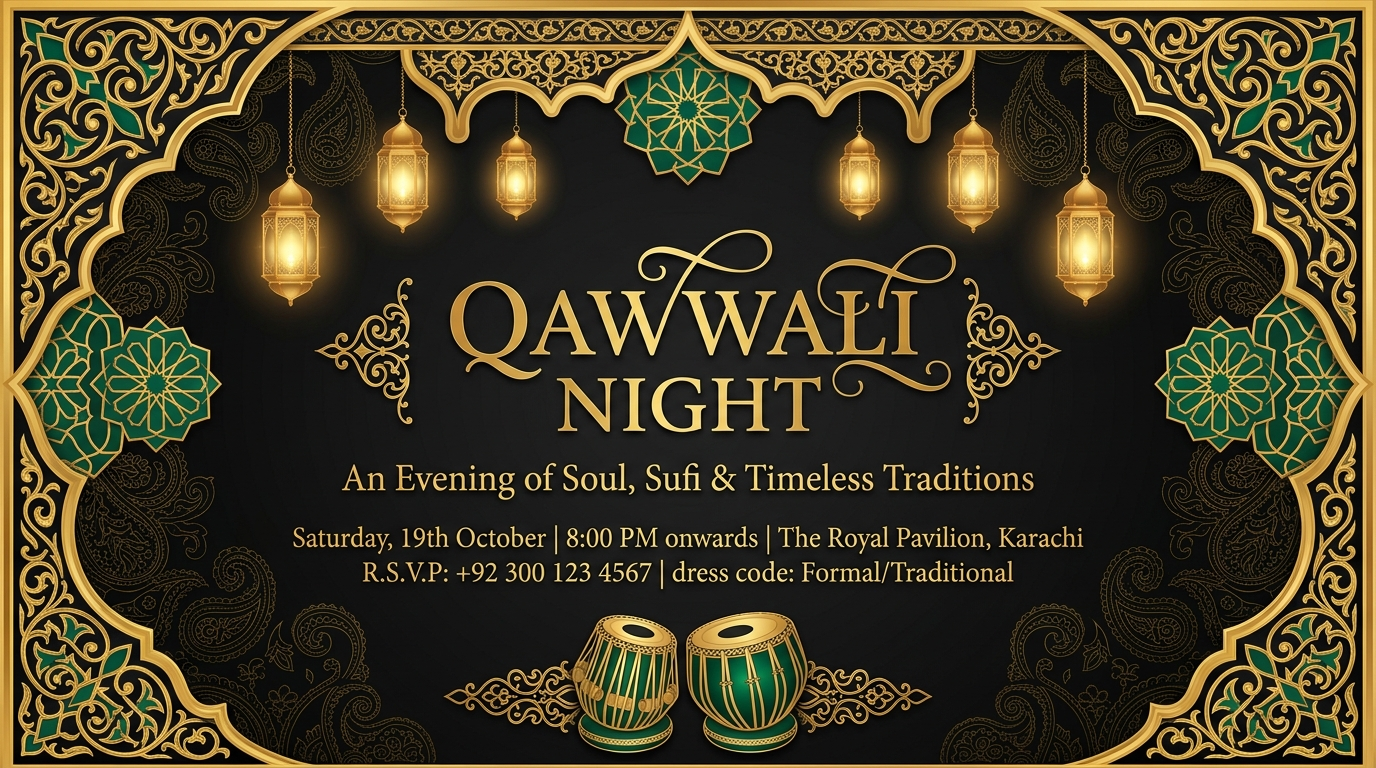
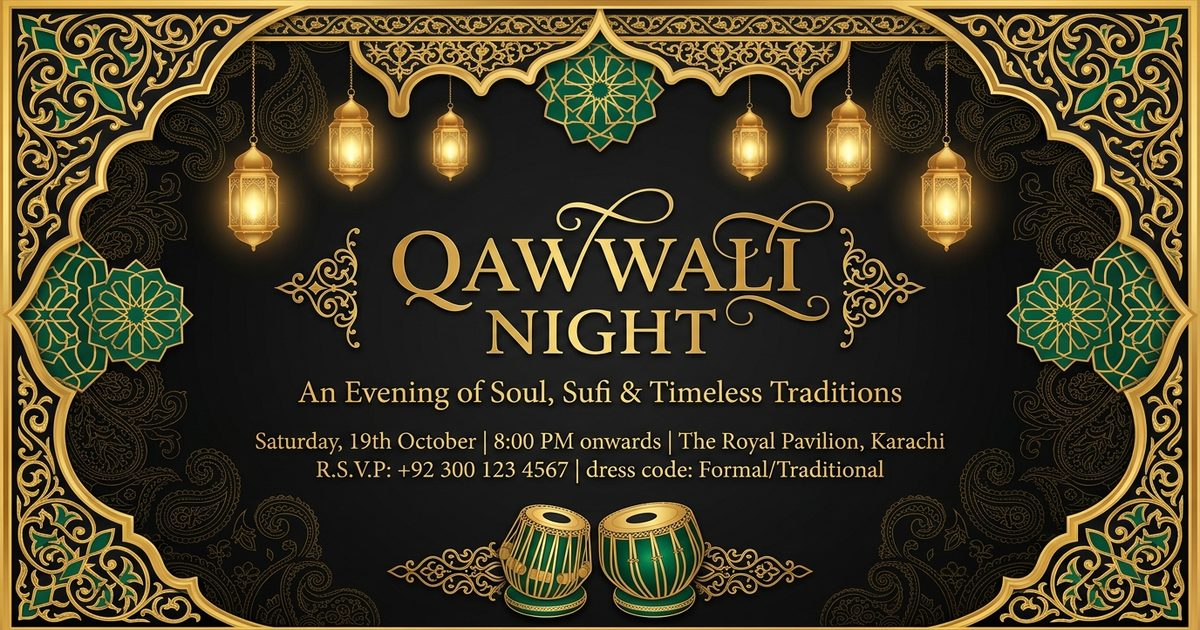
feat: transform anniversary invitation website into a Qawwali Night digital invitation platform

diff --git a/script.js b/script.js
@@ -48,6 +48,9 @@ document.addEventListener('DOMContentLoaded', () => {
 
   // 13. Initialize WhatsApp Sharing & Web Share API
   initShareActions(config, langController);
+
+  // 14. Suppress Netlify badge & drawer widgets
+  removeNetlifyBadge();
 });
 
 /* ==========================================================================
@@ -845,20 +848,27 @@ function initShareActions(config, langController) {
   const btnNative = document.getElementById('btn-share-native');
   const btnCopy = document.getElementById('btn-copy-link');
 
+  function getShareUrl() {
+    return (window.location && window.location.origin && window.location.origin !== 'null')
+      ? `${window.location.origin}${window.location.pathname}`
+      : 'https://qawwali-night.netlify.app/';
+  }
+
   function getShareMessage() {
     const lang = langController.getLang();
     const translations = config.translations || {};
     const dict = translations[lang] || translations.en || {};
+    const liveUrl = getShareUrl();
     
     if (dict.whatsappShareTemplate) {
-      return dict.whatsappShareTemplate;
+      return dict.whatsappShareTemplate.replace(/\{\{URL\}\}/g, liveUrl);
     }
 
     if (lang === 'ur') {
-      return `آپ کو محفلِ قوالی میں شرکت کی دعوت دی جاتی ہے۔ آئیے، روح پرور موسیقی اور خوبصورت روایات سے سجی اس شام کا حصہ بنیے۔ دعوت نامہ دیکھیں: ${window.location.href}`;
+      return `آپ کو محفلِ قوالی میں شرکت کی دعوت دی جاتی ہے۔ آئیے، روح پرور موسیقی اور خوبصورت روایات سے سجی اس شام کا حصہ بنیے۔ دعوت نامہ دیکھیں: ${liveUrl}`;
     }
 
-    return `You are invited to our Qawwali Night! Join us for a beautiful evening of soulful music and tradition. View your digital invitation: ${window.location.href}`;
+    return `You are invited to our Qawwali Night! Join us for a beautiful evening of soulful music and tradition. View your digital invitation: ${liveUrl}`;
   }
 
   if (btnWa) {
@@ -873,12 +883,13 @@ function initShareActions(config, langController) {
     btnNative.addEventListener('click', () => {
       const shareText = getShareMessage();
       const lang = langController.getLang();
+      const liveUrl = getShareUrl();
 
       if (navigator.share) {
         navigator.share({
           title: lang === 'ur' ? 'محفلِ قوالی دعوت نامہ' : 'Qawwali Night Digital Invitation',
           text: lang === 'ur' ? 'آپ کو محفلِ قوالی میں شرکت کی دعوت دی جاتی ہے۔' : 'You are invited to Qawwali Night!',
-          url: window.location.href
+          url: liveUrl
         }).catch(() => {});
       } else {
         const url = `https://api.whatsapp.com/send?text=${encodeURIComponent(shareText)}`;
@@ -889,7 +900,8 @@ function initShareActions(config, langController) {
 
   if (btnCopy) {
     btnCopy.addEventListener('click', () => {
-      navigator.clipboard.writeText(window.location.href).then(() => {
+      const liveUrl = getShareUrl();
+      navigator.clipboard.writeText(liveUrl).then(() => {
         const lang = langController.getLang();
         const msg = lang === 'ur' ? 'دعوت نامے کا لنک کاپی ہو گیا! 🔗' : 'Invitation link copied to clipboard! 🔗';
         showToast(msg);
@@ -913,4 +925,60 @@ function showToast(message) {
   setTimeout(() => {
     toast.classList.add('hidden');
   }, 3500);
+}
+
+/* ==========================================================================
+   14. SUPPRESS NETLIFY BADGE & DRAWER WIDGET
+   ========================================================================== */
+function removeNetlifyBadge() {
+  const selectors = [
+    'iframe[src*="netlify"]',
+    'iframe[title*="Netlify"]',
+    'iframe[id*="netlify"]',
+    'netlify-drawer',
+    'netlify-feedback-drawer',
+    'div[data-netlify-deploy-id]',
+    '.netlify-badge',
+    '[class*="netlify-drawer"]',
+    '[class*="netlify-feedback"]',
+    '[id*="netlify-drawer"]',
+    '[id*="netlify-feedback"]'
+  ];
+
+  function purge() {
+    selectors.forEach(sel => {
+      try {
+        const els = document.querySelectorAll(sel);
+        els.forEach(el => {
+          try {
+            el.remove();
+          } catch (e) {
+            el.style.display = 'none';
+          }
+        });
+      } catch (err) {}
+    });
+  }
+
+  // Purge immediately
+  purge();
+
+  // Observe and purge any asynchronously injected badge/drawer
+  try {
+    const observer = new MutationObserver(() => {
+      purge();
+    });
+
+    const target = document.documentElement || document.body;
+    if (target) {
+      observer.observe(target, {
+        childList: true,
+        subtree: true
+      });
+    }
+  } catch (err) {}
+
+  window.addEventListener('load', purge);
+  setTimeout(purge, 800);
+  setTimeout(purge, 2500);
 }

diff --git a/styles.css b/styles.css
@@ -583,7 +583,8 @@ html[dir="rtl"] .form-label {
   display: flex;
   align-items: center;
   gap: 8px;
-  min-width: max-content;
+  min-width: 0;
+  flex-shrink: 1;
 }
 .brand-urdu {
   font-family: var(--font-urdu);
@@ -1645,7 +1646,39 @@ html[data-theme="bright"] .icon-bright { display: inline-block; color: #8C6827; 
   }
 
   .nav-container {
-    padding: 8px 14px;
+    padding: 8px 12px;
+    gap: 8px;
+  }
+
+  .brand-text {
+    font-size: clamp(0.95rem, 3.2vw, 1.15rem);
+    white-space: nowrap;
+  }
+
+  .nav-actions {
+    gap: 6px;
+    flex-shrink: 0;
+  }
+
+  .lang-toggle-btn {
+    min-height: 38px;
+    height: 38px;
+    padding: 4px 10px;
+    font-size: 0.8rem;
+  }
+
+  .theme-toggle-btn {
+    min-width: 38px;
+    min-height: 38px;
+    width: 38px;
+    height: 38px;
+  }
+
+  .music-fab-btn {
+    min-height: 38px;
+    height: 38px;
+    padding: 4px 10px;
+    font-size: 0.85rem;
   }
 
   .hero-event-pills {
@@ -1680,6 +1713,56 @@ html[data-theme="bright"] .icon-bright { display: inline-block; color: #8C6827; 
 }
 
 @media (max-width: 480px) {
+  .nav-container {
+    padding: 6px 10px;
+    gap: 6px;
+  }
+
+  .brand-urdu {
+    font-size: 1.1rem;
+  }
+
+  .brand-text {
+    font-size: 0.95rem;
+  }
+
+  .nav-actions {
+    gap: 5px;
+    flex-shrink: 0;
+  }
+
+  .lang-toggle-btn {
+    min-height: 36px;
+    height: 36px;
+    padding: 0 8px;
+    font-size: 0.75rem;
+  }
+
+  .theme-toggle-btn {
+    min-width: 36px;
+    min-height: 36px;
+    width: 36px;
+    height: 36px;
+    font-size: 0.85rem;
+  }
+
+  /* Compact Circular Music Button on Mobile - Guaranteed Visible & Clipped-Proof */
+  .music-fab-btn {
+    min-width: 36px;
+    min-height: 36px;
+    width: 36px;
+    height: 36px;
+    padding: 0;
+    justify-content: center;
+    border-radius: 50%;
+  }
+  .music-fab-btn .eq-bars {
+    display: none;
+  }
+  .music-fab-btn .music-icon {
+    font-size: 0.9rem;
+  }
+
   .currency-toggle-btn .currency-text {
     display: none;
   }
@@ -1701,6 +1784,71 @@ html[data-theme="bright"] .icon-bright { display: inline-block; color: #8C6827; 
   .venue-action-btns a, .venue-action-btns button {
     width: 100%;
   }
+}
+
+@media (max-width: 360px) {
+  .nav-container {
+    padding: 6px 6px;
+    gap: 4px;
+  }
+
+  .brand-urdu {
+    display: none; /* Hide decorative Urdu text on ultra-narrow displays so brand text fits cleanly */
+  }
+
+  .brand-text {
+    font-size: 0.88rem;
+  }
+
+  .nav-actions {
+    gap: 4px;
+  }
+
+  .lang-toggle-btn {
+    min-height: 34px;
+    height: 34px;
+    padding: 0 6px;
+    font-size: 0.72rem;
+  }
+
+  .theme-toggle-btn {
+    min-width: 34px;
+    min-height: 34px;
+    width: 34px;
+    height: 34px;
+  }
+
+  .music-fab-btn {
+    min-width: 34px;
+    min-height: 34px;
+    width: 34px;
+    height: 34px;
+  }
+}
+
+/* ==========================================================================
+   15. NETLIFY BADGE / DRAWER SUPPRESSION
+   ========================================================================== */
+iframe[src*="netlify"],
+iframe[title*="Netlify"],
+iframe[id*="netlify"],
+netlify-drawer,
+netlify-feedback-drawer,
+div[data-netlify-deploy-id],
+.netlify-badge,
+[class*="netlify-drawer"],
+[class*="netlify-feedback"],
+[id*="netlify-drawer"],
+[id*="netlify-feedback"],
+div:has(> iframe[src*="netlify"]) {
+  display: none !important;
+  visibility: hidden !important;
+  opacity: 0 !important;
+  pointer-events: none !important;
+  width: 0 !important;
+  height: 0 !important;
+  position: absolute !important;
+  z-index: -99999 !important;
 }
 
 /* Reduced Motion Accessibility */

diff --git a/netlify/edge-functions/dynamic-og.js b/netlify/edge-functions/dynamic-og.js
@@ -6,12 +6,16 @@ export default async (request, context) => {
   if (!contentType.includes("text/html")) return response;
 
   let html = await response.text();
-  const origin = url.origin;
+  
+  // Determine actual public protocol and origin
+  const proto = request.headers.get("x-forwarded-proto") || url.protocol.replace(":", "") || "https";
+  const host = request.headers.get("x-forwarded-host") || request.headers.get("host") || url.host;
+  const origin = `${proto}://${host}`;
 
   const eventTitle = "Qawwali Night | A Soulful Evening Awaits";
   const eventDesc = "You are cordially invited to an exclusive evening of soulful Qawwali, Sufi music, and timeless traditions. Explore the invitation, save the date, and discover the venue.";
-  const eventImage = origin + "/assets/images/qawwali-night-og.jpg";
-  const eventUrl = origin + "/";
+  const eventImage = `${origin}/assets/images/qawwali-night-og.jpg`;
+  const eventUrl = `${origin}${url.pathname}`;
 
   html = replaceMeta(html, {
     title: eventTitle,
@@ -29,6 +33,9 @@ export default async (request, context) => {
 
 function replaceMeta(html, { title, desc, image, url, siteName }) {
   const ogTags = `
+    <link rel="image_src" href="${esc(image)}">
+    <meta property="og:type" content="website">
+    <meta property="og:url" content="${esc(url)}">
     <meta property="og:title" content="${esc(title)}">
     <meta property="og:description" content="${esc(desc)}">
     <meta property="og:image" content="${esc(image)}">
@@ -36,9 +43,9 @@ function replaceMeta(html, { title, desc, image, url, siteName }) {
     <meta property="og:image:type" content="image/jpeg">
     <meta property="og:image:width" content="1200">
     <meta property="og:image:height" content="630">
-    <meta property="og:url" content="${esc(url)}">
-    <meta property="og:type" content="website">
+    <meta property="og:image:alt" content="Qawwali Night Digital Invitation">
     <meta property="og:site_name" content="${esc(siteName)}">
+    <meta property="og:locale" content="en_US">
     <meta name="twitter:card" content="summary_large_image">
     <meta name="twitter:title" content="${esc(title)}">
     <meta name="twitter:description" content="${esc(desc)}">
@@ -56,4 +63,4 @@ function esc(s) {
   return s.replace(/&/g, "&amp;").replace(/"/g, "&quot;").replace(/</g, "&lt;").replace(/>/g, "&gt;");
 }
 
-export const config = { path: "/" };
+export const config = { path: "/*" };

diff --git a/config.js b/config.js
@@ -135,7 +135,7 @@ const QAWWALI_CONFIG = {
       toastLinkCopied: "Invitation link copied to clipboard! 🔗",
       toastIcsDownloaded: "Downloaded .ics calendar file 📅",
       toastRsvpSubmitted: "✨ RSVP submitted successfully! Thank you. ✨",
-      whatsappShareTemplate: `✨ You are cordially invited to Qawwali Night! ✨\n\nJoin us for a soulful evening of Sufi music, traditional mehfil culture & timeless memories.\n\n📅 Date: Saturday, Nov 21, 2026\n⏰ Time: 8:00 PM onwards\n📍 Venue: The Royal Palm Mehfil Hall, Lahore\n\nView your digital invitation & RSVP: https://qawwali-night.netlify.app`
+      whatsappShareTemplate: `✨ You are cordially invited to Qawwali Night! ✨\n\nJoin us for a soulful evening of Sufi music, traditional mehfil culture & timeless memories.\n\n📅 Date: Saturday, Nov 21, 2026\n⏰ Time: 8:00 PM onwards\n📍 Venue: The Royal Palm Mehfil Hall, Lahore\n\nView your digital invitation & RSVP: {{URL}}`
     },
     ur: {
       brandTitle: "محفلِ قوالی",
@@ -219,7 +219,7 @@ const QAWWALI_CONFIG = {
       toastLinkCopied: "دعوت نامے کا لنک کاپی ہو گیا! 🔗",
       toastIcsDownloaded: "کیلنڈر فائل ڈاؤن لوڈ ہو گئی 📅",
       toastRsvpSubmitted: "✨ شرکت کی تصدیق موصول ہو گئی۔ شکریہ! ✨",
-      whatsappShareTemplate: `✨ آپ کو محفلِ قوالی میں شرکت کی دعوت دی جاتی ہے! ✨\n\nآئیے، روح پرور صوفیانہ کلام اور خوبصورت روایات سے سجی اس شام کا حصہ بنیے۔\n\n📅 تاریخ: ہفتہ، ۲۱ نومبر ۲۰۲۶\n⏰ وقت: رات ۸:۰۰ بجے سے\n📍 مقام: رائل پام مہفل ہال، لاہور\n\nدعوت نامہ دیکھیں: https://qawwali-night.netlify.app`
+      whatsappShareTemplate: `✨ آپ کو محفلِ قوالی میں شرکت کی دعوت دی جاتی ہے! ✨\n\nآئیے، روح پرور صوفیانہ کلام اور خوبصورت روایات سے سجی اس شام کا حصہ بنیے۔\n\n📅 تاریخ: ہفتہ، ۲۱ نومبر ۲۰۲۶\n⏰ وقت: رات ۸:۰۰ بجے سے\n📍 مقام: رائل پام مہفل ہال، لاہور\n\nدعوت نامہ دیکھیں: {{URL}}`
     }
   }
 };

diff --git a/index.html b/index.html
@@ -13,6 +13,7 @@
   <link rel="canonical" href="https://qawwali-night.netlify.app/">
 
   <!-- OG-START -->
+  <link rel="image_src" href="https://qawwali-night.netlify.app/assets/images/qawwali-night-og.jpg">
   <meta property="og:type" content="website">
   <meta property="og:url" content="https://qawwali-night.netlify.app/">
   <meta property="og:title" content="Qawwali Night | A Soulful Evening Awaits">
